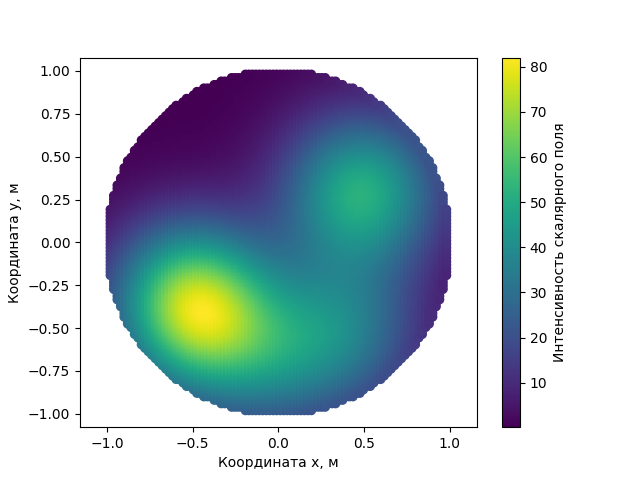
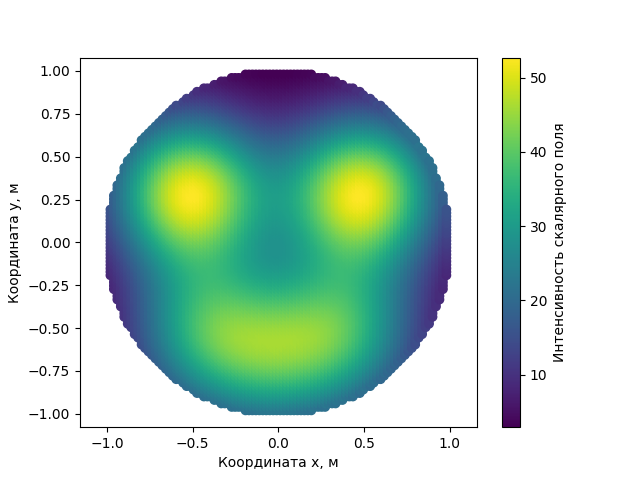
321312

diff --git a/complex_scalar_fields.py b/complex_scalar_fields.py
@@ -39,7 +39,7 @@ def bell_function(x, y, intensity=1, dec_rate=[0.5, 0.5]):
     return scalar_field
 
 intensity_centrums_x = [-0.5, 0.5, -0.4, 0.0, 0.4]
-intensity_centrums_y = [-0.3, 0.3, -0.5, -0.7, -0.5]
+intensity_centrums_y = [0.3, 0.3, -0.5, -0.7, -0.5]
 intensity_values = [1.7, 1.7, 1, 0.7, 1]
 
 def scalar_function(x, y, int_cen_x, int_cen_y, int_vel):
